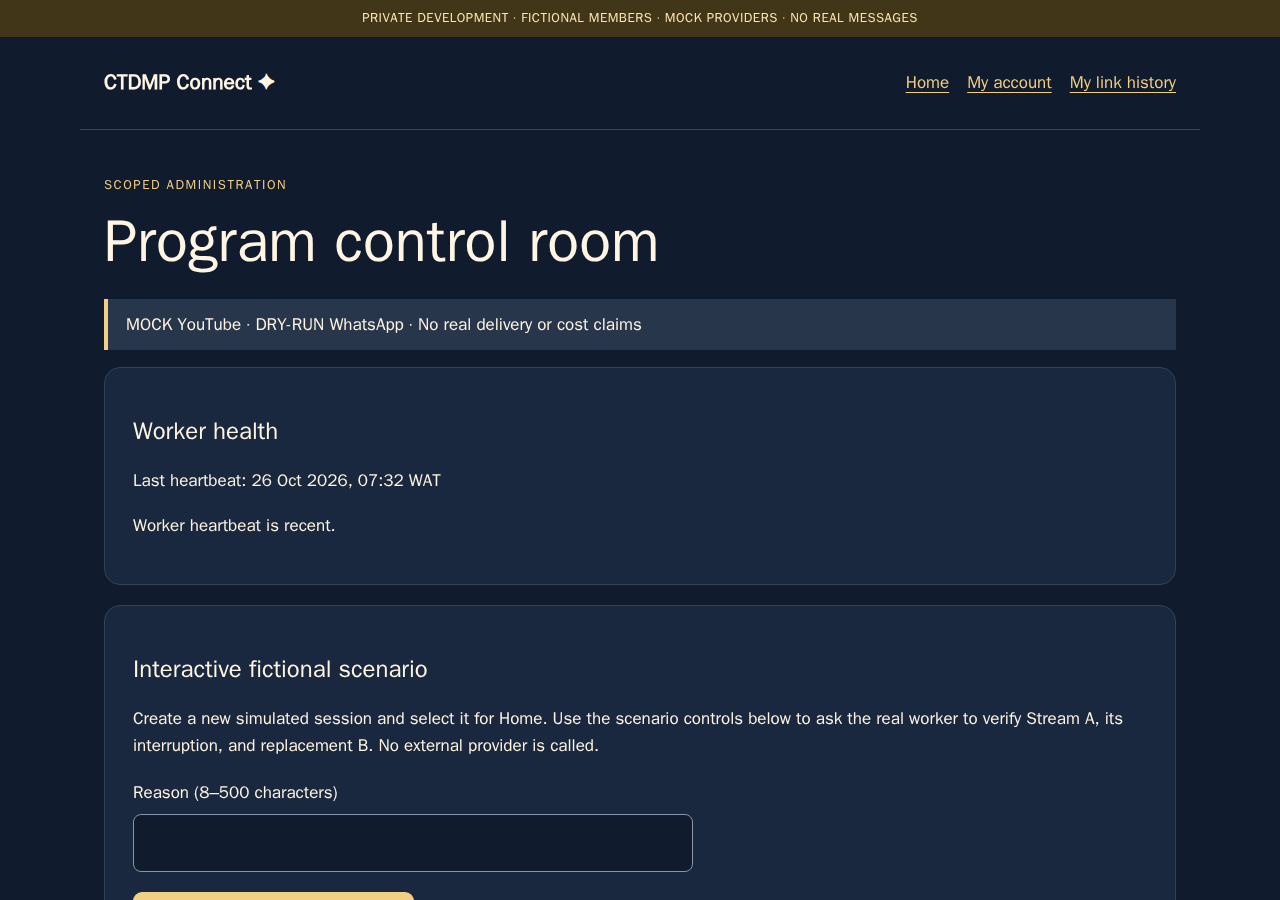
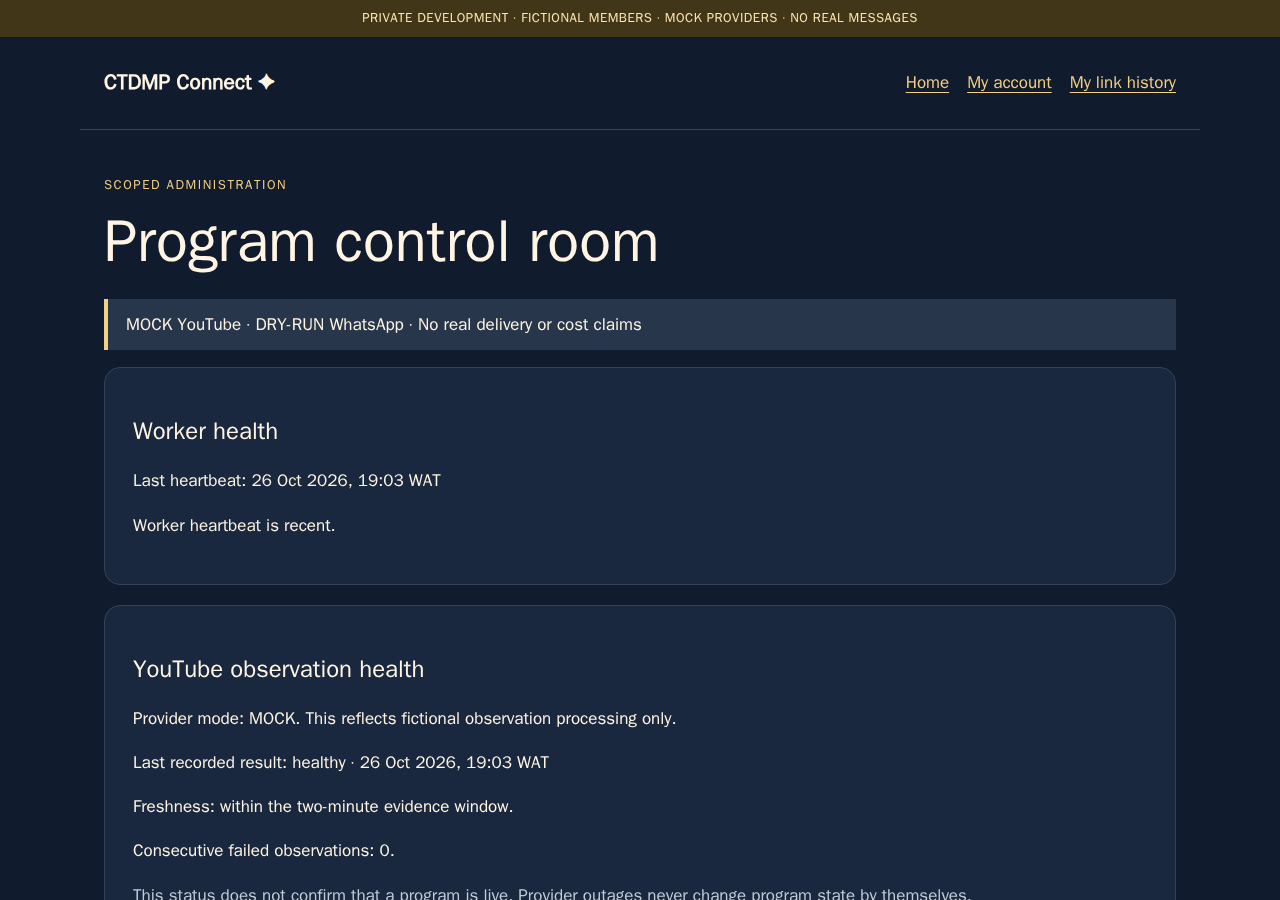
Add durable provider health and freshness

Changed region(s): [[0.0938, 0.7156, 0.875, 0.9022], [0.0938, 0.9333, 0.7812, 1.0], [0.2812, 0.5289, 0.3125, 0.56]]

diff --git a/tests/slice.test.ts b/tests/slice.test.ts
@@ -110,9 +110,28 @@ test('T-MSG-09: concurrent dispatch cannot exceed remaining budget',async()=>{
  const rows=(await pool.query('SELECT state,reason FROM notifications WHERE program_id=$1',[f.program])).rows;
  assert.equal(rows.filter(n=>n.state==='DRY_RUN_PREPARED').length,1);assert.equal(rows.filter(n=>n.reason==='BUDGET_CAP').length,1);
 });
-test('T-LIVE-02/04/06: wrong source, upcoming video, provider outage never confirm live',async()=>{
- const f=await fixture();await f.observe('MockVideo_A',true,undefined,false,'unapproved');await f.observe('MockVideo_A',false);await f.observe('MockVideo_A',true,undefined,true);
+test('T-LIVE-02/04/06: wrong source and provider outage never confirm live; health is durable and freshness-aware',async()=>{
+ const f=await fixture();
+ await pool.query("INSERT INTO grants(member_id,permission,branch_id) VALUES($1,'program.read',NULL)",[f.admin]);
+ const empty=await server.inject({url:'/api/v1/admin/providers/health',headers:auth(f.admin)});
+ assert.equal(empty.statusCode,200);assert.equal(empty.json().unknownWhenEmpty,true);assert.equal(empty.json().items.length,0);
+ assert.equal((await server.inject({url:'/api/v1/admin/providers/health',headers:auth(f.m)})).statusCode,403);
+ await f.observe('MockVideo_A',true,undefined,false,'unapproved');await f.observe('MockVideo_A',false);await f.observe('MockVideo_A',true,undefined,true);
  const p=(await pool.query('SELECT * FROM programs WHERE id=$1',[f.program])).rows[0];assert.equal(p.state,'SCHEDULED');assert.equal(p.current_sequence,null);
+ let health=(await pool.query("SELECT * FROM provider_health WHERE organization_id=$1 AND provider_key='youtube'",[f.org])).rows[0];
+ assert.equal(health.status,'DEGRADED');assert.equal(health.consecutive_failures,1);assert.ok(health.last_success_at);assert.ok(health.last_failure_at);
+ let response=await server.inject({url:'/api/v1/admin/providers/health',headers:auth(f.admin)});
+ assert.equal(response.json().items[0].freshness,'FRESH');assert.equal(response.json().items[0].status,'DEGRADED');
+ await f.observe('MockVideo_A',true);
+ health=(await pool.query("SELECT * FROM provider_health WHERE organization_id=$1 AND provider_key='youtube'",[f.org])).rows[0];
+ assert.equal(health.status,'HEALTHY');assert.equal(health.consecutive_failures,0);assert.ok(health.last_failure_at);
+ await pool.query("INSERT INTO mock_observations(program_id,video_id,channel_id,title,live,provider_error,observed_at,expected_revision) SELECT id,'MockVideo_C',$2,'CTDMP stale outage',true,true,now()-interval '5 minutes',revision FROM programs WHERE id=$1",[f.program,f.channel]);
+ await observeOne();
+ health=(await pool.query("SELECT * FROM provider_health WHERE organization_id=$1 AND provider_key='youtube'",[f.org])).rows[0];
+ assert.equal(health.status,'HEALTHY');assert.equal(health.consecutive_failures,0);
+ await pool.query("UPDATE provider_health SET last_attempt_at=now()-interval '3 minutes' WHERE organization_id=$1 AND provider_key='youtube'",[f.org]);
+ response=await server.inject({url:'/api/v1/admin/providers/health',headers:auth(f.admin)});
+ assert.equal(response.json().items[0].freshness,'STALE');assert.equal(response.json().items[0].status,'HEALTHY');
 });
 test('T-LIVE-05: competing streams require review without notification',async()=>{
  const f=await fixture();

diff --git a/apps/web/src/pages.ts b/apps/web/src/pages.ts
@@ -104,7 +104,11 @@ export async function registerPages(a:FastifyInstance,principal:Principal) {
   const programs=(await pool.query('SELECT p.* FROM programs p LEFT JOIN program_selections s ON s.program_id=p.id AND s.organization_id=p.organization_id WHERE p.organization_id=$1 ORDER BY (s.program_id IS NOT NULL) DESC,p.local_date DESC,p.id DESC LIMIT 20',[m.organization_id])).rows;
   const heartbeat=(await pool.query('SELECT max(seen_at) AS seen FROM worker_heartbeats')).rows[0].seen;
   const grant=grants.find(g=>g.permission==='engagement.read');
+  const providerHealth=(await pool.query("SELECT * FROM provider_health WHERE organization_id=$1 AND provider_key='youtube' AND operation='stream_observation'",[m.organization_id])).rows[0];
   let body=`<span class=eyebrow>Scoped administration</span><h1>Program control room</h1><p class=notice>MOCK YouTube · DRY-RUN WhatsApp · No real delivery or cost claims</p><section class=card><h2>Worker health</h2><p>Last heartbeat: ${date(heartbeat)}</p><p>${heartbeat&&Date.now()-new Date(heartbeat).getTime()<30000?'Worker heartbeat is recent.':'Worker heartbeat is stale or unavailable. Check the worker service.'}</p></section>`;
+  const providerAge=providerHealth?Date.now()-new Date(providerHealth.last_attempt_at).getTime():null;
+  const providerFresh=providerAge!==null&&providerAge>=0&&providerAge<=120000;
+  body+='<section class=card><h2>YouTube observation health</h2><p>Provider mode: MOCK. This reflects fictional observation processing only.</p>'+(providerHealth?'<p>Last recorded result: '+label(providerHealth.status)+' · '+date(providerHealth.last_attempt_at)+'</p><p>Freshness: '+(providerFresh?'within the two-minute evidence window':'stale or timestamp unavailable')+'.</p><p>Consecutive failed observations: '+escapeHtml(providerHealth.consecutive_failures)+'. '+(providerHealth.last_error_code?'Last safe error code: '+label(providerHealth.last_error_code)+'.':'')+'</p>':'<p>Status: unknown. No provider observation has been recorded.</p>')+'<p class=muted>This status does not confirm that a program is live. Provider outages never change program state by themselves.</p></section>';
   if((canManage||canSend)&&!recent)body+='<p class=notice>Sign in again before changing programs or sending settings. Administrative verification lasts 15 minutes. <a href=/demo/sign-in>Sign in again</a></p>';
   if(canDemo&&canManage&&recent)body+=`<section class=card><h2>Interactive fictional scenario</h2><p>Create a new simulated session and select it for Home. Use the scenario controls below to ask the real worker to verify Stream A, its interruption, and replacement B. No external provider is called.</p><form method=post action=/admin/demo/scenarios>${field(csrf(req,reply,'create-scenario'))}<input type=hidden name=requestKey value="${randomToken()}"><input type=hidden name=selectionRevision value="${selection?.revision??0}"><label for=scenario-reason>Reason (8–500 characters)</label><input type=text id=scenario-reason name=reason required minlength=8 maxlength=500><button>Create and show fictional session</button></form></section>`;
   for(const p of programs) {

diff --git a/packages/shared/domain.ts b/packages/shared/domain.ts
@@ -11,6 +11,10 @@ export async function observeOne():Promise<boolean> {
   const p=(await c.query('SELECT * FROM programs WHERE id=$1 FOR UPDATE',[candidate.program_id])).rows[0];
   const o=(await c.query('SELECT * FROM mock_observations WHERE id=$1 AND NOT processed FOR UPDATE',[candidate.id])).rows[0];
   if(!o)return true;
+  await c.query(
+   "INSERT INTO provider_health(organization_id,provider_key,operation,status,last_attempt_at,last_success_at,last_failure_at,last_error_code,consecutive_failures) VALUES($1,'youtube','stream_observation',$2,$3::timestamptz,CASE WHEN $2='HEALTHY' THEN $3::timestamptz ELSE NULL END,CASE WHEN $2='DEGRADED' THEN $3::timestamptz ELSE NULL END,CASE WHEN $2='DEGRADED' THEN 'PROVIDER_ERROR' ELSE NULL END,CASE WHEN $2='DEGRADED' THEN 1 ELSE 0 END) ON CONFLICT(organization_id,provider_key,operation) DO UPDATE SET status=EXCLUDED.status,last_attempt_at=EXCLUDED.last_attempt_at,last_success_at=CASE WHEN EXCLUDED.status='HEALTHY' THEN EXCLUDED.last_attempt_at ELSE provider_health.last_success_at END,last_failure_at=CASE WHEN EXCLUDED.status='DEGRADED' THEN EXCLUDED.last_attempt_at ELSE provider_health.last_failure_at END,last_error_code=EXCLUDED.last_error_code,consecutive_failures=CASE WHEN EXCLUDED.status='DEGRADED' THEN provider_health.consecutive_failures+1 ELSE 0 END,revision=provider_health.revision+1,updated_at=now() WHERE EXCLUDED.last_attempt_at>=provider_health.last_attempt_at",
+   [p.organization_id,o.provider_error?'DEGRADED':'HEALTHY',o.observed_at]
+  );
   let outcome='IGNORED';
   const finish=async()=>{await c.query('UPDATE mock_observations SET processed=true,outcome=$2 WHERE id=$1',[o.id,outcome]);return true;};
   if(p.state==='COMPLETED') {outcome='SESSION_COMPLETED';return finish();}

diff --git a/apps/api/src/app.ts b/apps/api/src/app.ts
@@ -51,6 +51,16 @@ export async function app() {
   const result=await confirmJoin(token,nonce,req.cookies.join_browser??'',actor?.id);
   return reply.code(303).header('Location',result.location).send();
  });
+ a.get('/api/v1/admin/providers/health',async req=>{
+  const actor=await principal(req);
+  if(!(await pool.query("SELECT 1 FROM grants WHERE member_id=$1 AND permission='program.read' AND branch_id IS NULL",[actor.id])).rowCount)throw new DomainError('PERMISSION_DENIED',403);
+  const row=(await pool.query("SELECT * FROM provider_health WHERE organization_id=$1 ORDER BY provider_key,operation",[actor.organization_id])).rows;
+  const items=row.map((h:any)=>{
+   const ageSeconds=Math.floor((Date.now()-new Date(h.last_attempt_at).getTime())/1000);
+   return {provider:h.provider_key,operation:h.operation,status:h.status,freshness:ageSeconds>=0&&ageSeconds<=120?'FRESH':'STALE',lastAttemptAt:h.last_attempt_at,lastSuccessAt:h.last_success_at,lastFailureAt:h.last_failure_at,lastErrorCode:h.last_error_code,consecutiveFailures:h.consecutive_failures,revision:h.revision};
+  });
+  return {mode:'MOCK',unknownWhenEmpty:true,evidenceFreshnessSeconds:120,items};
+ });
  a.get('/api/v1/me/checkins',async req=>{
   const m=await principal(req);
   return {mode:'MOCK',items:(await pool.query('SELECT program_id,action,first_opened_at,last_opened_at,assurance,stream_sequence,last_stream_sequence FROM checkin_events WHERE member_id=$1 AND organization_id=$2 ORDER BY first_opened_at DESC LIMIT 50',[m.id,m.organization_id])).rows};

diff --git a/docs/STATUS.md b/docs/STATUS.md
@@ -16,7 +16,7 @@ Provider modes: YouTube MOCK; WhatsApp MOCK/DRY_RUN; webhook MOCK_CONTRACT. Stor
 
 Material gaps: interim frontend is Fastify-served HTML, not the proposed Next.js/Tailwind application (ADR-009). Control room has no candidate-management commands yet. No production authentication/recovery, actual Meta envelope/verification challenge, real source registry, physical-device evidence, native build, backup restore, complete permissions/privacy lifecycle, or launch approval. Browser screenshots at a mobile viewport do not prove device behavior or WCAG compliance. See NEXT_STEPS.md.
 
-Repository synchronization: push of the build branch was attempted and failed because the VPS has no GitHub HTTPS authentication (`could not read Username`; terminal prompts disabled). All commits and evidence remain safely on the VPS. No remote branch or GitHub CI run was created. Configure repository-scoped GitHub authentication on the VPS through an approved credential mechanism; never paste a token into chat. Then run `git push -u origin build/phase-1-browser-slice` from the repository.
+Historical note: the push failed before VPS GitHub CLI authentication was completed. This was resolved at the later checkpoint below; origin now tracks the pushed build branch.
 
 ## 26 October continuation
 
@@ -36,8 +36,21 @@ Migrations 003–005 were applied to development and isolated test databases. Ac
 
 Runtime remains API and worker systemd services on VPS loopback only. Provider modes: YouTube MOCK; WhatsApp MOCK/DRY_RUN; webhook MOCK_CONTRACT. Passkeys/storage/maps/push/native apps are unavailable. No real member data, real messages or provider charges were introduced. Complete manual run/view procedure and route contracts: README.md and docs/ADMINISTRATION.md.
 
-GitHub synchronization is still blocked. The connected account reports repository push access, but the connected app's contents-write endpoint returned provider 403. The VPS did not have GitHub CLI credentials. gh 2.45.0 was installed on the VPS; two browser-device flows expired without a recorded CLI login. No token/password was requested in chat or committed. To avoid another stale chat code, complete gh auth login --hostname github.com --git-protocol https --web --scopes repo,workflow directly in Lightsail browser SSH, then verify gh api user --jq .login. The workflow scope is required to upload the repository's .github/workflows/ci.yml. Authenticate the intended account with repository write access. Afterwards run gh auth setup-git and git push -u origin build/phase-1-browser-slice. Never print or paste a token. No GitHub CI run or remote push is claimed.
+Historical note for this checkpoint: GitHub CLI authentication had not yet been completed and no push was claimed at that time. Authentication and push were later completed; see the current checkpoint below.
 
 Next build work: real passkey/recovery and administrator assurance; actual Meta verification/payload contracts and reconciliation; provider health/freshness; schedule/channel governance; privacy retention and rights; remaining acceptance/load/restore/accessibility evidence; Next.js and later product phases. Owner approval is still required before any real broadcast, spending or public deployment.
 
 26 October final source checkpoint: 413ca32 (audited program administration and interactive recovery demo). A normal push of build/phase-1-browser-slice was attempted after the commit and failed with "could not read Username for https://github.com" because no CLI authentication was saved. The working tree is checkpointed on the VPS; no remote push is claimed. Final browser run passed all 18 checks after selected-session prioritization and current-source review UI fixes. The API/worker were restarted from this source and loopback liveness was rechecked.
+
+
+## 26 October checkpoint — GitHub sync and provider health
+
+Current branch build/phase-1-browser-slice is pushed to origin; VPS and remote branch agree at ee1ce30ddbbe919e32de053de79f2ebafdfdc9bd. GitHub CLI identity used was Jennycruzy. The previous authentication blocker is resolved.
+
+Implemented and migrated 006_provider_health.sql. Worker observation handling now keeps a durable per-organization YouTube observation status, success/failure timestamps, safe error code, consecutive-failure count and revision. Results older than the recorded attempt cannot downgrade it. The control room shows unknown/healthy/degraded plus two-minute evidence freshness; /api/v1/admin/providers/health requires a global program.read grant. Provider health is explicitly separate from program-live state and currently describes only MOCK observation fixtures.
+
+Actual verification on the Lightsail development host: pnpm check passed TypeScript and 25 PostgreSQL/API integration tests (25 passed, 0 failed, 0 skipped). The targeted provider-health case covers unknown state, grant denial, degraded then healthy recovery, out-of-order failure rejection and stale status. pnpm test:browser passed all 18 Chromium checks with JavaScript disabled. The versioned migration was applied to development and test databases. After service restart, both ctdmp-api and ctdmp-worker were active; /health/live returned {"status":"ok","mode":"MOCK"} and /health/ready returned {"status":"ready","scope":"database-only"}. The immediate post-restart probe raced startup and failed once; the follow-up probes passed.
+
+During implementation, an initial integration run found a PostgreSQL timestamp parameter inference error; a later test edit caused a duplicate fixture grant. Both were corrected. The final complete pnpm check and browser run passed. Detailed evidence: docs/evidence/provider-health-2026-10-26.txt and updated browser screenshots/JSON.
+
+Provider modes remain YouTube MOCK, WhatsApp MOCK/DRY_RUN, webhook MOCK_CONTRACT. No credentials, real member data, external messages, provider charges or public deployment were used. Production identity, real Meta payload handling, schedule/source governance, receipt reconciliation, privacy retention and other product phases remain incomplete. Full Phase 1 acceptance has not passed.

diff --git a/docs/NEXT_STEPS.md b/docs/NEXT_STEPS.md
@@ -1,6 +1,6 @@
 # Next coding steps — 25 October 2026
 
-1. Complete the remaining Phase 1 contracts: production identity preparation, schedule/official-channel governance, persistent provider health/freshness, delivery reconciliation and privacy retention. Candidate approval/rejection, replacement/finish, explicit Home-session selection, audit reasons and pause/resume now work in the private fixture environment.
+1. Complete the remaining Phase 1 contracts: production identity preparation, schedule/official-channel governance, delivery reconciliation and privacy retention. Provider health/freshness now has a MOCK-only durable projection and admin view. Candidate approval/rejection, replacement/finish, explicit Home-session selection, audit reasons and pause/resume now work in the private fixture environment.
 2. Implement real WebAuthn/passkeys, verified WhatsApp linking and recovery before any public pilot. Current browser access is operator-issued one-hour fictional sessions only; production startup remains blocked.
 3. Extend the interim server-rendered frontend into the proposed Next.js/Tailwind application while preserving semantic forms and server-enforced authorization. Add replay contracts, full category preferences, pagination, OpenAPI and typed clients.
 4. Implement Meta verification challenge and actual versioned payload contracts following current official documentation. Current signed webhook is explicitly a fictional contract; no account is connected.
@@ -14,4 +14,7 @@ Completed this session: member home/history/preferences, deliberate generic join
 
 Next real integration decisions: authoritative channel IDs and schedule; account/branding authority; complete authentication/recovery policy. Meta activation additionally requires actual owned account/templates, consented destinations, approved budget/retention and explicit send approval. No secrets should be requested in chat.
 
-26 October progress: program commands and append-only transition/evidence history; terminal completion and same-source recovery fixes; explicit Home selection; recent fixture authentication and separate management grants; idempotent owner-facing scenario creation; worker-driven A/interruption/B controls; own prepared test-alert pages; local mock destination pages. 25 integration tests and 18 browser checks passed. docs/ADMINISTRATION.md contains the runnable procedure. GitHub pushing is still awaiting a completed VPS CLI authentication; repository collaborator access alone did not authenticate the CLI, and the connected app's write endpoint returned provider 403.
+26 October progress: program commands and append-only transition/evidence history; terminal completion and same-source recovery fixes; explicit Home selection; recent fixture authentication and separate management grants; idempotent owner-facing scenario creation; worker-driven A/interruption/B controls; own prepared test-alert pages; local mock destination pages. 25 integration tests and 18 browser checks passed. docs/ADMINISTRATION.md contains the runnable procedure. At this historical checkpoint, the VPS CLI was not yet authenticated; this was later resolved as recorded below.
+
+
+26 October update: GitHub auth completed on the VPS and build/phase-1-browser-slice is pushed at ee1ce30ddbbe919e32de053de79f2ebafdfdc9bd. Durable MOCK YouTube observation health/freshness, scoped API read, and control-room display are implemented and verified. Immediate coding priorities remain schedule/channel governance and delivery reconciliation; production integrations still need current provider/account activation and owner decisions.
